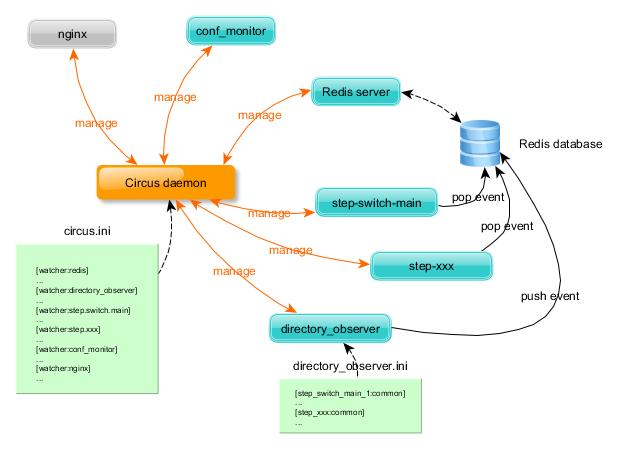
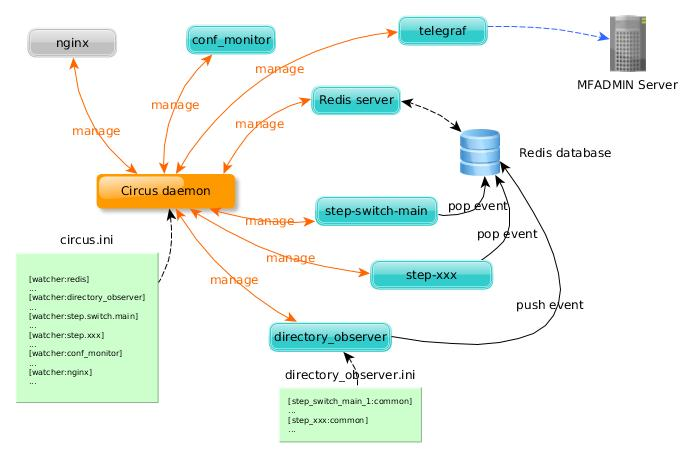
docs: Update MFDATA documentation

diff --git a/doc/mfdata_miscellaneous.md b/doc/mfdata_miscellaneous.md
@@ -338,14 +338,15 @@ A plugin can access a database through Python ORMs, like [SQLAlchemy](https://ww
 
 Metwork supplies :index:`PostgreSQL`/:index:`PostGIS` database through the MFBASE storage module. If you want to easily and quickly install a Postgres database, check the :doc:`MFBASE documentation <mfbase:index>`.
 
-
+.. index:: circus, redis, telegraf, influxdb
 ## MFDATA - How it works ?
 
 
 [Circus](https://circus.readthedocs.io/en/latest/) is a Python program in order to monitor and control processes and sockets.
 
-
 [Redis](https://redis.io/) is an in-memory data structure store, used as a database, cache and message broker.
+
+[Telegraf](https://docs.influxdata.com/telegraf/) is a plugin-driven server agent for collecting and sending metrics and events from databases, systems, and IoT sensors.
 
 `directory_observer` is a Metwork tool that allows you to monitor activity on various directories and push the corresponding events to a Redis queue (a list). For example, you may create a file inside one of your monitored directories, the creation event will be pushed to the Redis queue.
 
@@ -378,7 +379,7 @@ Once the monitoring of the directories is started, any action on the monitored d
 
 Depending on the event, the corresponding plugin step is executed. The event is popped from the Redis queue.
 
-
+If the MFDATA plugin is :ref:`configured for monitoring <mfdata_tuning_monitoring:Monitor a plugin>`, the metrics are send via [Telegraf](https://docs.influxdata.com/telegraf/) to the [InfluxDB](https://docs.influxdata.com/influxdb/) database on the MFADMIN server.
 
 
 
